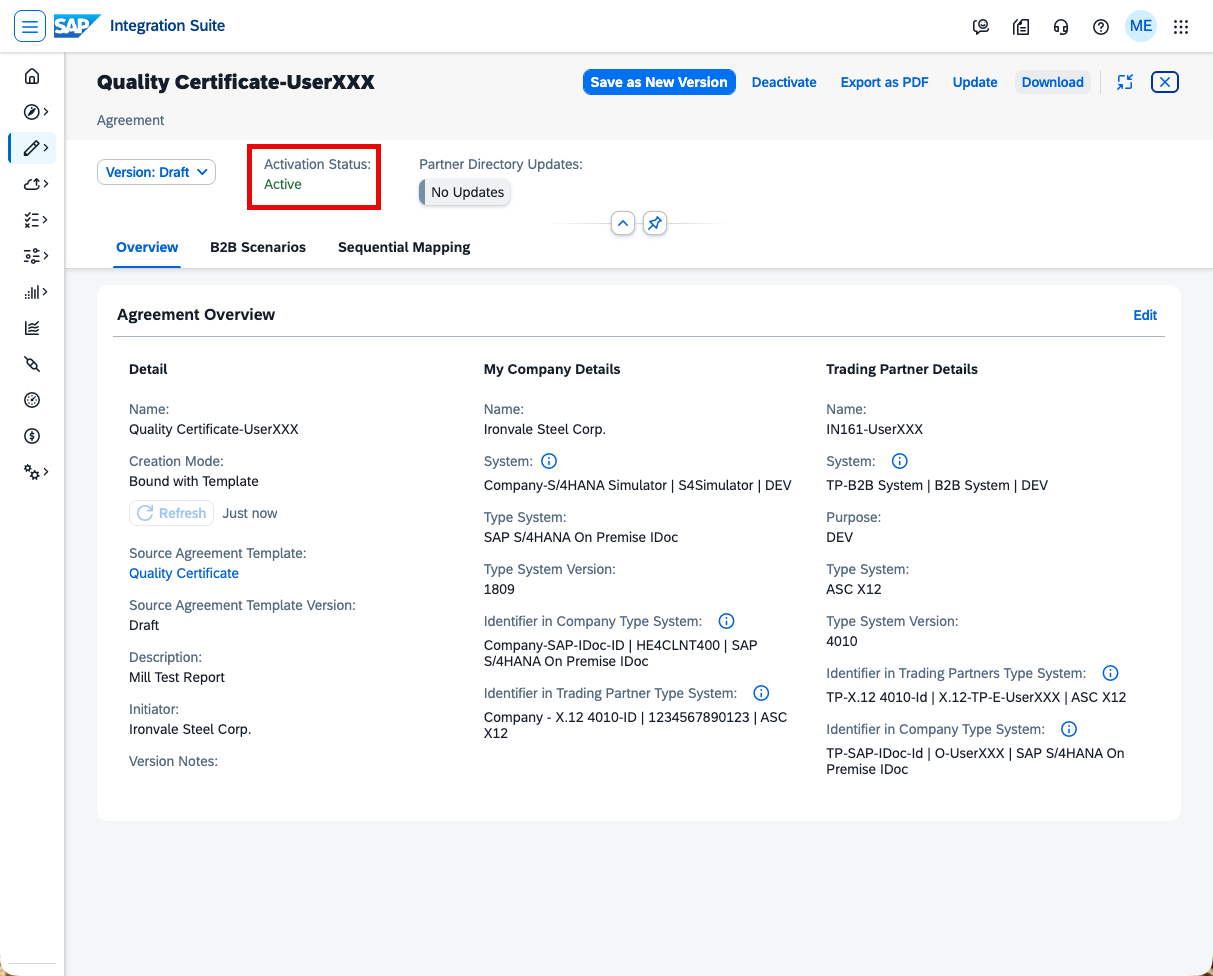
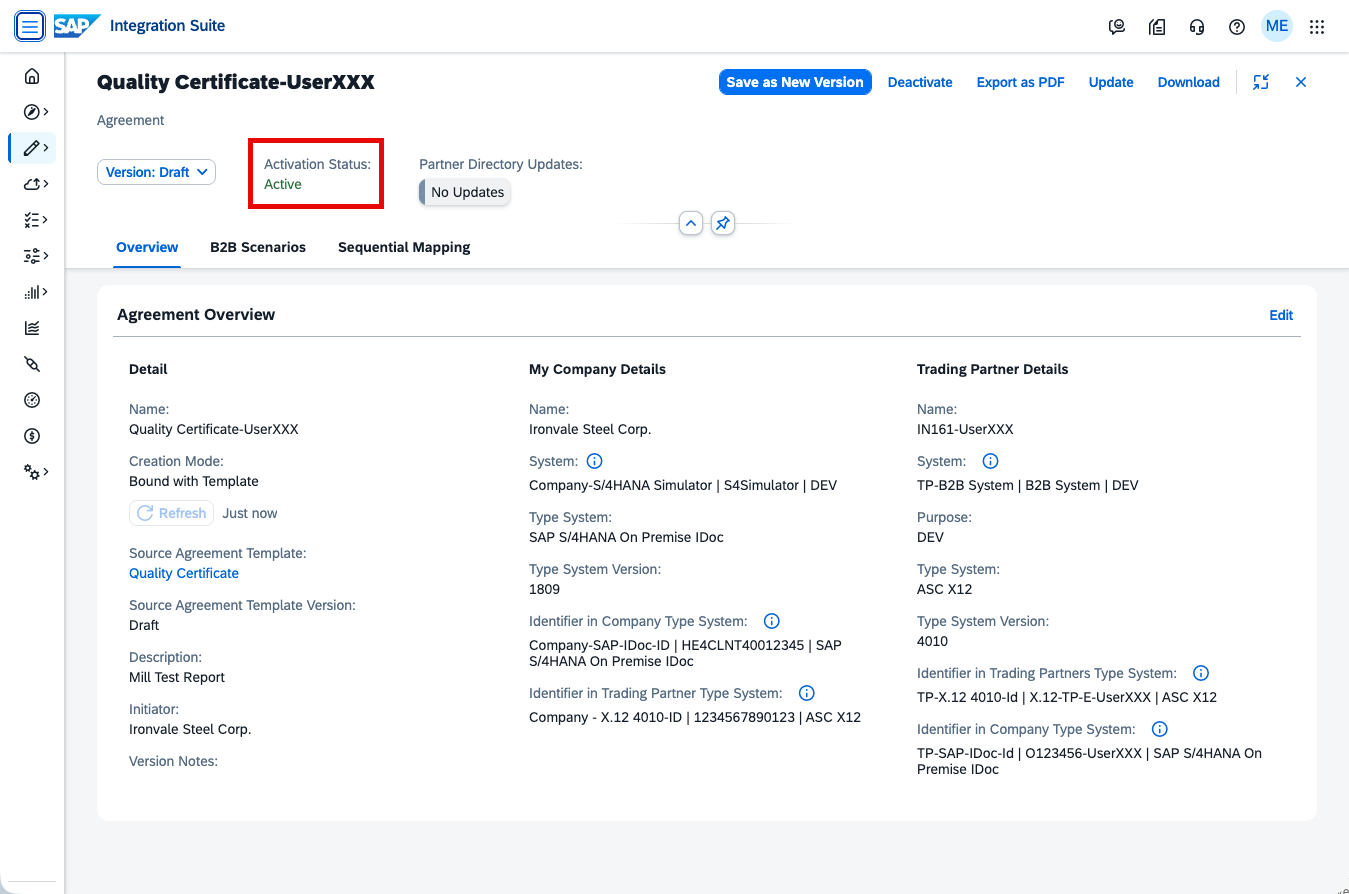
screenshots and explanations updated

diff --git a/exercises/Exercise-1.md b/exercises/Exercise-1.md
@@ -54,7 +54,7 @@ More information around the identifiers can be found here: [Understanding Identi
 ![Create SAP IDoc identifier](assets/exercise1/IN161_Exercise1_7.png)
 
 Create a second identifier that will be used in the (simulated) S/4HANA QM system. Use the exact casing shown:
-- Identification: O-UserXXX (this is the letter O, not zero)
+- Identification: O123456-UserXXX (this starts with the letter O, not zero)
 - Alias: TP-SAP-IDoc-Id
 - Type System: SAP S/4HANA On Premise IDoc
 - Scheme: N/A
@@ -208,7 +208,12 @@ The agreement draft opens. Keep (or adjust) the agreement name Quality Certifica
 
 ![Activate the agreement](assets/exercise1/IN161_Exercise1_27.png)
 
-The agreement created in "by-reference" mode shows a one-way, outbound business transaction for sending the Report of Test Results (Mill Test Report) to your trading partner. At this stage it uses the mapping that was **migrated from PI/PO** and is already available in the tenant, so you can send a message right away – without having built any mapping yourself yet.
+The agreement created in "by-reference" mode shows a one-way, outbound business transaction for sending the Report of Test Results (Mill Test Report) to your trading partner. At this stage it uses an existing mapping that is already available in the tenant, so you can send a message right away – without having built any mapping yourself yet.
+
+In our example this is a mapping that was **migrated from SAP PI/PO** – a very common starting point, because many customers already run working message mappings there and reuse them when they move B2B to Integration Suite. It does not have to come from PI/PO, though: it could just as well be a plain **XSLT** exported from any other system. The point is simply that *some* existing mapping is reused here as-is.
+
+In Exercise 5 you will then create a **Mapping Guideline (MAG)** – the native mapping entity of the SAP Integration Advisor – and use it to **replace** this old (migrated) mapping with one you own and can evolve yourself.
+
 Let's see this in action! Click Activate.
 
 ----
